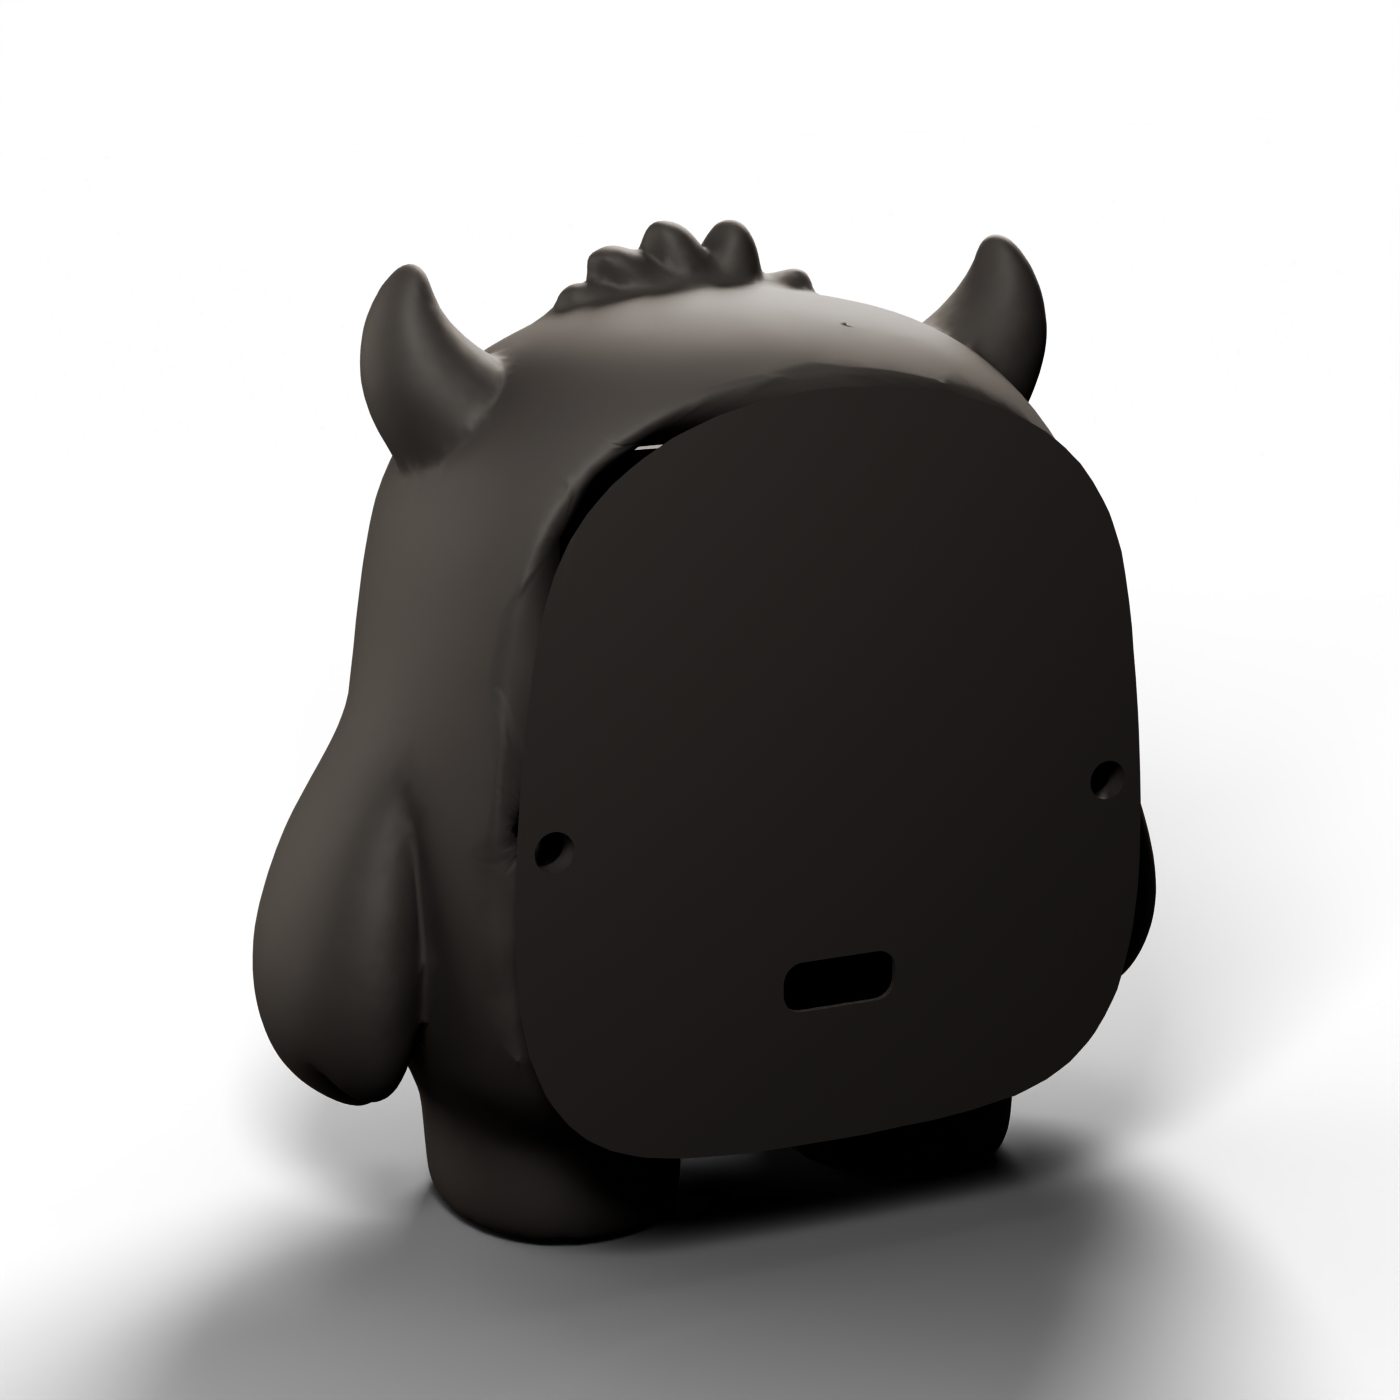
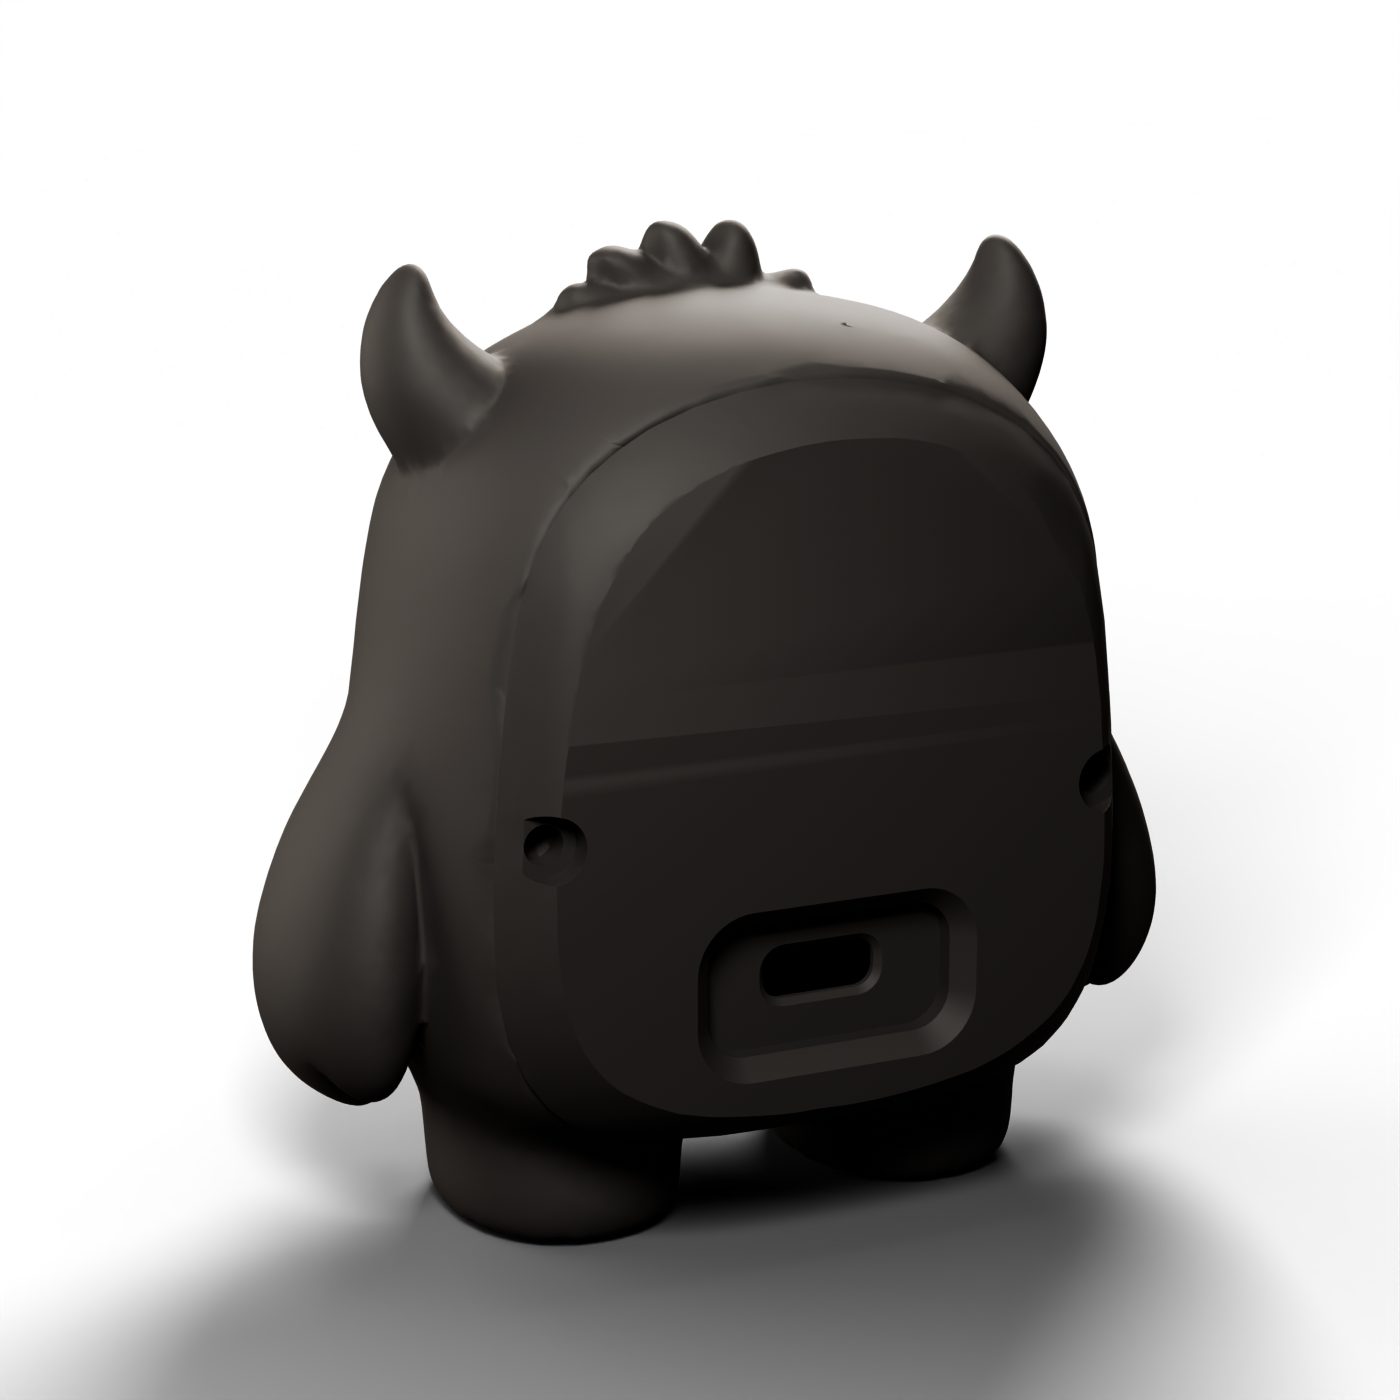
Update renders with final assembly (parts orientation, ZYX Euler), live-screen overlay position

diff --git a/index.html b/index.html
@@ -48,7 +48,7 @@ canvas,video{image-rendering:pixelated;image-rendering:crisp-edges;display:block
 /* product render with a live screen */
 .prod{position:relative;width:100%}
 .prod img{display:block;width:100%;height:auto;user-select:none;-webkit-user-drag:none}
-.prod .scr{position:absolute;left:34.86%;top:40.54%;width:30.34%;height:15.14%;background:#000;overflow:hidden}
+.prod .scr{position:absolute;left:34.86%;top:38.81%;width:30.34%;height:15.14%;background:#000;overflow:hidden}
 .prod .scr>*{width:100%;height:100%;object-fit:contain}
 .ctaimg{width:min(400px,100%);display:block;margin:0 auto -40px}
 

diff --git a/src/page/src.html b/src/page/src.html
@@ -45,7 +45,7 @@ canvas,video{image-rendering:pixelated;image-rendering:crisp-edges;display:block
 /* product render with a live screen */
 .prod{position:relative;width:100%}
 .prod img{display:block;width:100%;height:auto;user-select:none;-webkit-user-drag:none}
-.prod .scr{position:absolute;left:34.86%;top:40.54%;width:30.34%;height:15.14%;background:#000;overflow:hidden}
+.prod .scr{position:absolute;left:34.86%;top:38.81%;width:30.34%;height:15.14%;background:#000;overflow:hidden}
 .prod .scr>*{width:100%;height:100%;object-fit:contain}
 .ctaimg{width:min(400px,100%);display:block;margin:0 auto -40px}
 

diff --git a/cad/render/render.py b/cad/render/render.py
@@ -45,20 +45,39 @@ body = imp(BODY, 'body'); bezel = imp(BEZEL, 'bezel'); back = imp(BACK, 'back')
 for o in (body, bezel, back):
     o.scale = (S, S, S); o.location = (0, 0, 0)
 # body: front faces +Z in CAD; rotate so front faces -Y, up stays up
-body.rotation_euler = (math.radians(90), math.radians(180), 0)
-bz = body.dimensions  # after scale, before rotation dims are local
-D = 40.64 * S
-# window centre in CAD (relative to bounds centre): x 0, y ~ -3 mm
-win_y = cfg.get('win_y', 3.0) * S
-bezel.rotation_euler = (math.radians(90), math.radians(180), math.radians(cfg.get('bezel_rot', 0)))
-bezel.location = (0, -D / 2 + cfg.get('bezel_inset', 2.0) * S, win_y)
 from mathutils import Matrix
-back.data.transform(Matrix.Rotation(math.radians(cfg.get('back_rot', 90)), 4, 'Z'))
-back.rotation_euler = (math.radians(90), math.radians(180), 0)
-back.location = (0, D / 2 + 2 * S + cfg.get('back_gap', 0) * S, cfg.get('back_y', 0) * S)
-if cfg.get('explode'):
-    e = cfg['explode']
-    bezel.location.y -= e * S; back.location.y += e * S
+def place(o, q):
+    """Explicit placement from assembly_tool.html: mirror(local XYZ) -> spin(local Z) -> Euler XYZ -> position (mm)."""
+    m = q.get('mirror', [0, 0, 0])
+    if any(m):
+        o.data.transform(Matrix.Diagonal([-1 if v else 1 for v in m] + [1]))
+        if sum(1 for v in m if v) % 2: o.data.flip_normals()
+    o.data.transform(Matrix.Rotation(math.radians(q.get('spin', 0)), 4, 'Z'))
+    o.rotation_mode = 'ZYX'  # three.js 'XYZ' (assembly_tool.html) == Blender 'ZYX' with the same x,y,z angles
+    o.rotation_euler = [math.radians(a) for a in q['rot']]
+    o.location = [v * S for v in q['pos']]
+
+D = 40.64 * S
+win_y = cfg.get('win_y', 3.0) * S  # window centre in CAD: x 0, y ~ -3 mm
+if cfg.get('parts'):
+    for o, k in ((body, 'body'), (bezel, 'bezel'), (back, 'back')): place(o, cfg['parts'][k])
+    if cfg.get('explode'):
+        e = cfg['explode']  # optional per-part distances: explode_bezel / explode_back
+        bezel.location.y -= cfg.get('explode_bezel', e) * S; back.location.y += cfg.get('explode_back', e) * S
+else:
+    body.rotation_euler = (math.radians(90), math.radians(180), 0)
+    bz = body.dimensions  # after scale, before rotation dims are local
+    bezel.rotation_euler = (math.radians(90), math.radians(180), math.radians(cfg.get('bezel_rot', 0)))
+    bezel.location = (0, -D / 2 + cfg.get('bezel_inset', 2.0) * S, win_y)
+    back.data.transform(Matrix.Rotation(math.radians(cfg.get('back_rot', 90)), 4, 'Z'))
+    if cfg.get('back_mirror'):  # mirror left/right (local X), port stays at the bottom
+        back.data.transform(Matrix.Scale(-1, 4, (1, 0, 0))); back.data.flip_normals()
+    back.rotation_euler = (math.radians(90), math.radians(180), 0)
+    back.location = (0, D / 2 + 2 * S + cfg.get('back_gap', 0) * S, cfg.get('back_y', 0) * S)
+    if cfg.get('explode'):
+        e = cfg['explode']
+        bezel.location.y -= e * S; back.location.y += e * S
+
 
 body.data.materials.append(pla('body', cfg['body'], matte=cfg.get('matte', True)))
 bezel.data.materials.append(pla('bezel', cfg['bezel'], matte=cfg.get('matte', True)))
